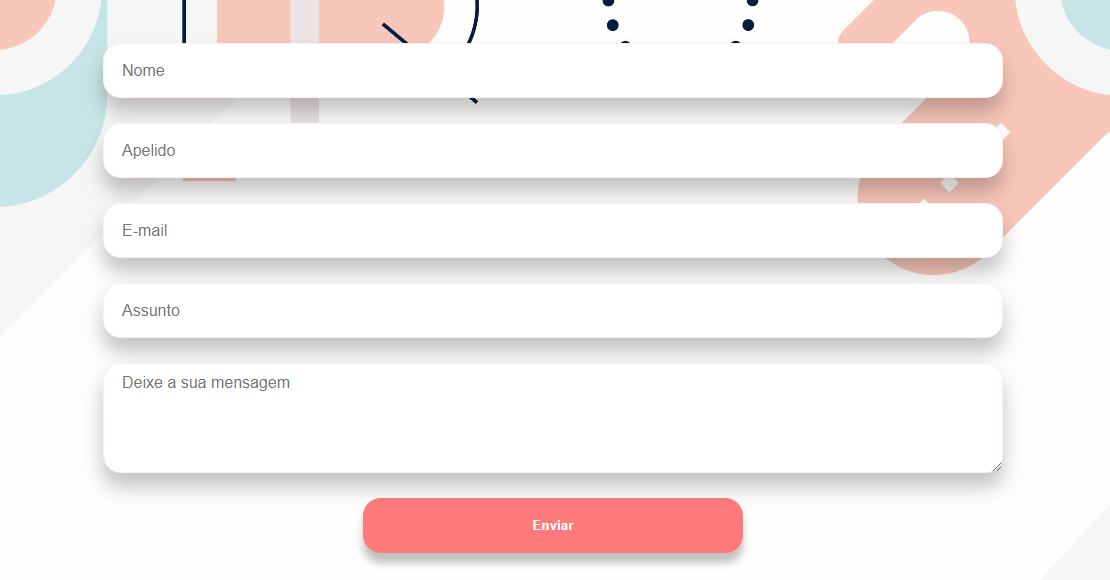
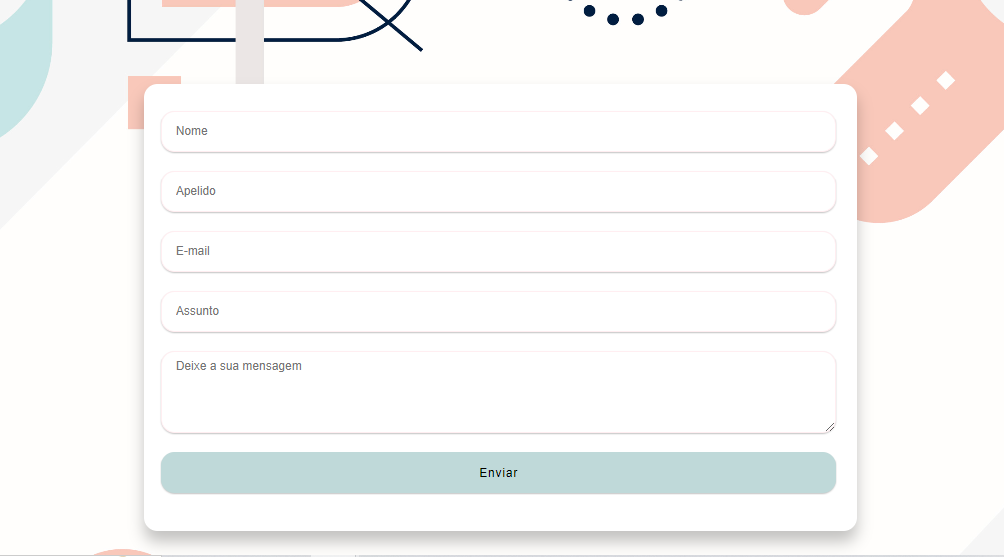
bc

diff --git a/CSS/contact.css b/CSS/contact.css
@@ -111,7 +111,7 @@ textarea:focus{
 
 @media(min-width: 950px){
     body{
-        background-image: url(/images/bc-form.jpg);
+        background-image: url(/images/bc-form-desktop.png);
     }
     .contact{
         width: 950px;
